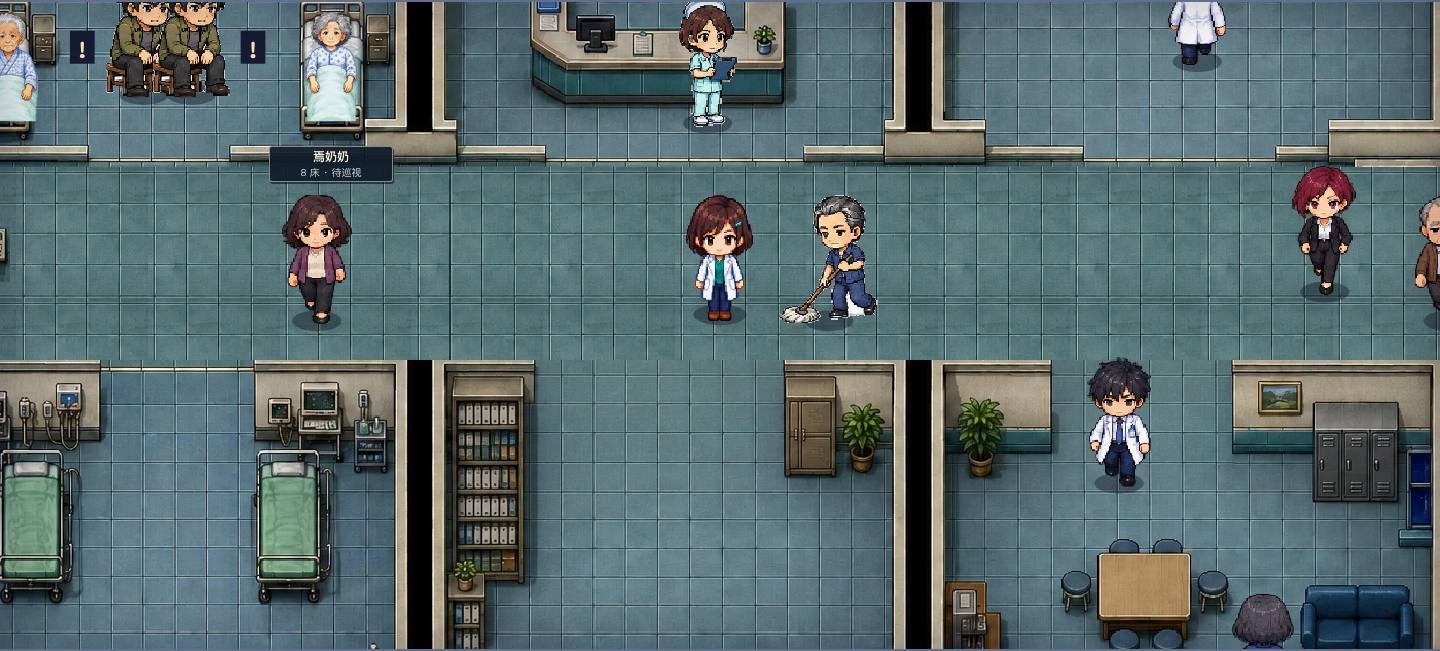
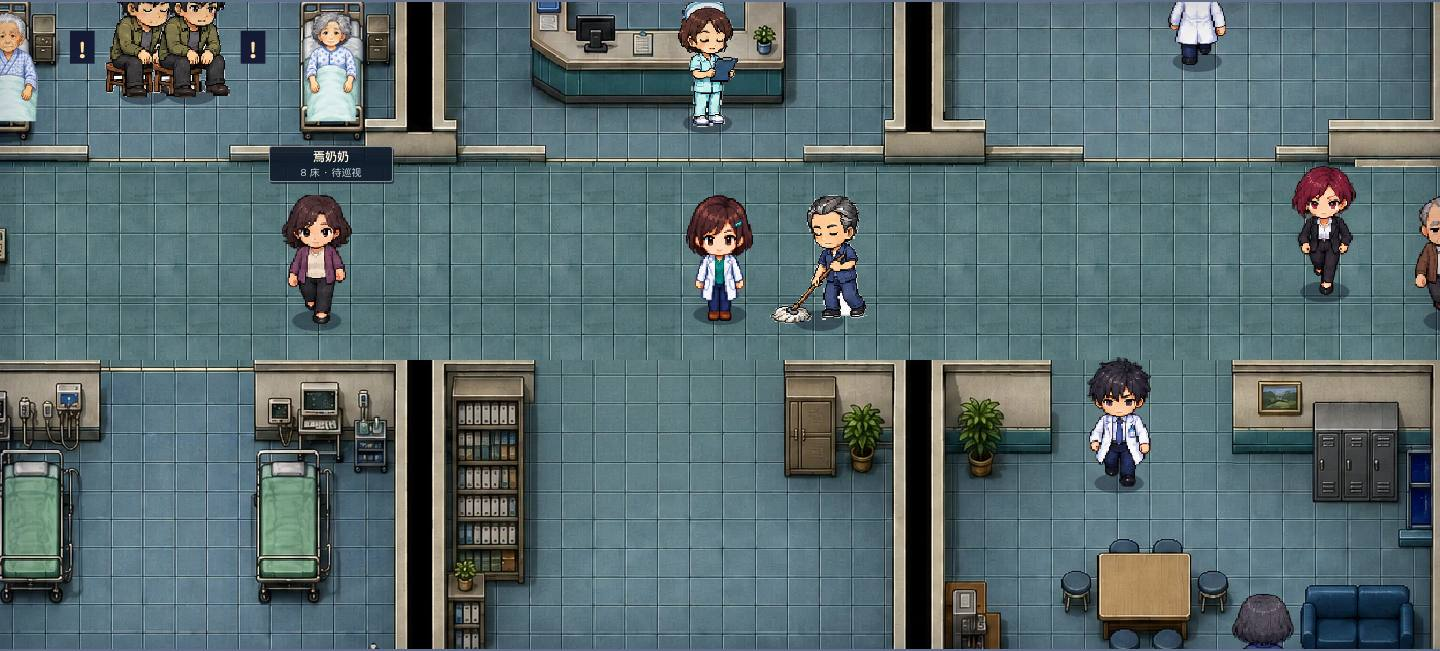
Keep the route on a walking character and the pose on seated people

Changed region(s): [[0.5312, 0.2765, 0.625, 0.5223], [0.4688, 0.0, 0.5312, 0.2151], [0.0625, 0.0, 0.125, 0.1536]]

diff --git a/src/world/WorldStage.tsx b/src/world/WorldStage.tsx
@@ -194,14 +194,14 @@ export function WorldStage(props: Props) {
     // patient sheets stream in behind it and only their own people wait.
     const atlases = new Map(ATLASES.map(a => [a.id, load(a.file)] as const));
     const drawable = (img?: HTMLImageElement) => !!img?.complete && img.naturalWidth > 0;
-    let stopped = false, raf = 0, width = 1, height = 1, last = 0, wasMoving = false, lastNear = '', lastRoom = '', lastTick = 0, lastFollow = 0;
+    let stopped = false, raf = 0, width = 1, height = 1, last = 0, wasMoving = false, lastNear = '', lastRoom = '', lastTick = 0, lastFollow = 0, follows = 0;
     const resize = () => { width = container.clientWidth; height = container.clientHeight; if(c.width!==Math.round(width))c.width = Math.round(width); if(c.height!==Math.round(height))c.height = Math.round(height); };
     const stopObserving = observeLayout(container,resize); resize();
     const reducedMotion = window.matchMedia('(prefers-reduced-motion: reduce)');
     const nearest = () => targetsRef.current.filter(t => distance(state.current, livePoint(t)) < 45).sort((a, b) => distance(state.current, livePoint(a)) - distance(state.current, livePoint(b)))[0];
     const interact = (target?: Target) => { if (!blocked.current) { const t = target ?? nearest(); if (t && distance(state.current, livePoint(t)) < 52) openRef.current(t); } };
     const obstacles=()=>corridorBedInUse(latest.current.r)?[CORRIDOR_BED_OBSTACLE]:[];
-    const navigate = (t: Target) => { const to=livePoint(t); state.current.path = findPath(state.current, to,obstacles()); state.current.destination = t.id; if (distance(state.current, to) < 30) interact(t); };
+    const navigate = (t: Target) => { const to=livePoint(t); follows = 0; state.current.path = findPath(state.current, to,obstacles()); state.current.destination = t.id; if (distance(state.current, to) < 30) interact(t); };
     engine.current = { interact, navigate };
     // Depth entries are reused between frames so a busy floor allocates nothing
     // per frame beyond the movement step itself.
@@ -275,12 +275,17 @@ export function WorldStage(props: Props) {
         if (Math.abs(dx) > Math.abs(dy)) player.facing = dx > 0 ? 3 : 1;
         else if (dy) player.facing = dy > 0 ? 0 : 2;
         if (player.destination && !player.path.length) {
-          const t = targetsRef.current.find(t => t.id === player.destination); player.destination = ''; if (t) interact(t);
+          // A route that ends short of a character who kept walking is issued
+          // again, so a required card is never lost to the walk.
+          const t = targetsRef.current.find(t => t.id === player.destination);
+          const to = t?.npc ? livePoint(t) : undefined;
+          if (to && distance(player, to) > 46 && follows < 8) { follows++; player.path = findPath(player, to, obstacles()); }
+          if (!player.path.length) { player.destination = ''; if (t) interact(t); }
         } else if (player.destination && time - lastFollow > 260) {
           // Following a walking character: keep the route pointed at them.
           lastFollow = time;
           const t = targetsRef.current.find(t => t.id === player.destination);
-          const to = t && t.npc ? livePoint(t) : undefined;
+          const to = t?.npc ? livePoint(t) : undefined;
           if (to && distance(player.path[player.path.length - 1], to) > 22) player.path = findPath(player, to, obstacles());
         }
       } else player.moving = false;

diff --git a/src/world/npc-runtime.test.ts b/src/world/npc-runtime.test.ts
@@ -152,6 +152,17 @@ describe('ward life runtime', () => {
     expect(sawChart).toBe(true);
   }, 20000);
 
+  it('keeps a working pose on people who have no walking sheet', () => {
+    const life = createWardLife();
+    const sit = { atlas: 'ward-actions' as const, row: 2, group: 0 };
+    life.sync([{ id: 'companion', speed: 20, offset: 0,
+      stops: [{ ...SPOTS.wardA[0], dwell: 900, action: sit }, { x: SPOTS.wardA[0].x + 10, y: SPOTS.wardA[0].y, dwell: 900, action: sit }] }]);
+    for (let i = 0; i < 60 * 20; i++) {
+      life.step(FRAME, { motion: true });
+      expect(actorAction(life.actors[0]), `frame ${i}`).toBeDefined();
+    }
+  }, 20000);
+
   it('alternates the two frames of a pose', () => {
     const life = createWardLife();
     life.sync([{ id: 'x', speed: 40, offset: 0, stops: [{ ...SPOTS.hallCentre, dwell: 4000 }, { ...SPOTS.hallEast, dwell: 4000 }] }]);

diff --git a/src/world/npc-runtime.ts b/src/world/npc-runtime.ts
@@ -130,8 +130,10 @@ export function actorAction(actor: NpcActor): NpcAction | undefined {
   const stop = actor.def.stops[Math.min(actor.index, actor.def.stops.length - 1)];
   if (actor.state === 'walk') {
     const haul = actor.def.haul;
-    if (!actor.hauling || !haul) return undefined;
-    return { atlas: haul.atlas, row: haul.row, group: actor.facing === 1 ? haul.left : haul.right };
+    if (actor.hauling && haul) return { atlas: haul.atlas, row: haul.row, group: actor.facing === 1 ? haul.left : haul.right };
+    // People drawn only from a work sheet keep their pose while they shift
+    // position, rather than dropping to an empty frame.
+    return actor.def.walk ? undefined : stop.action;
   }
   return stop.action;
 }
